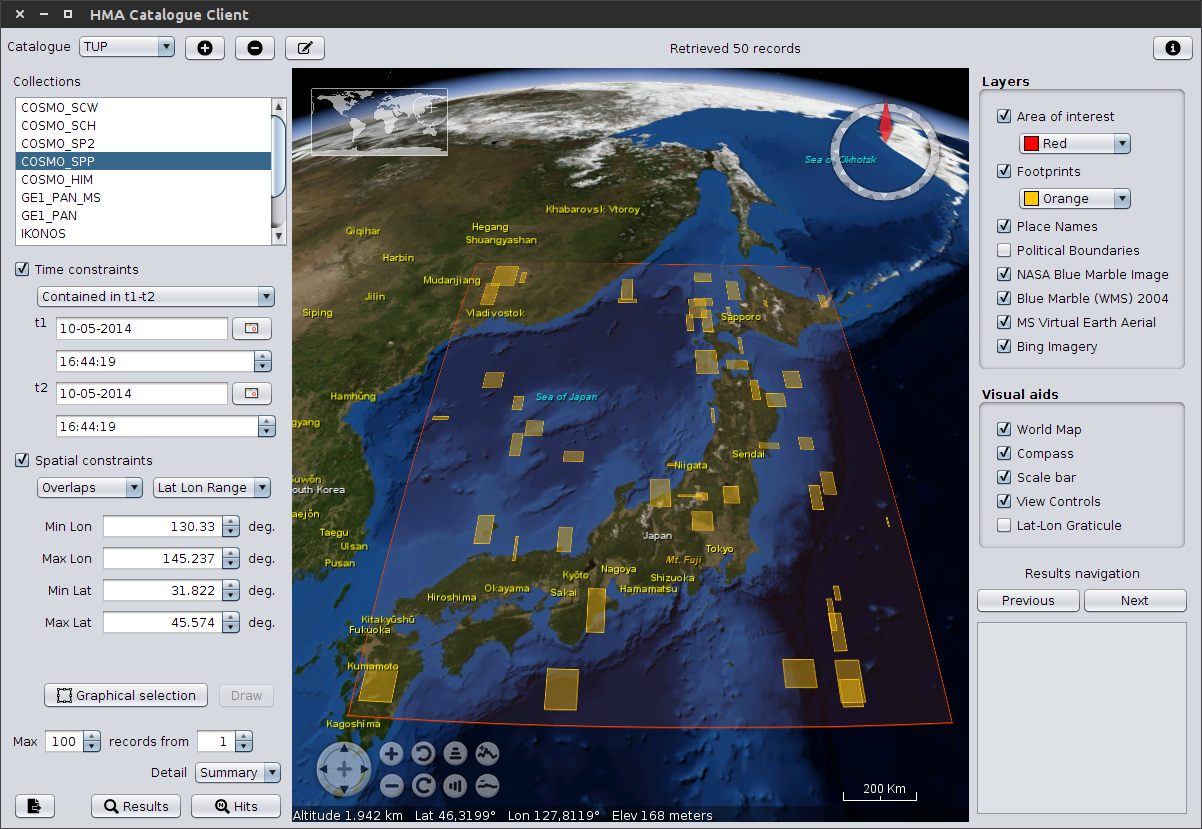
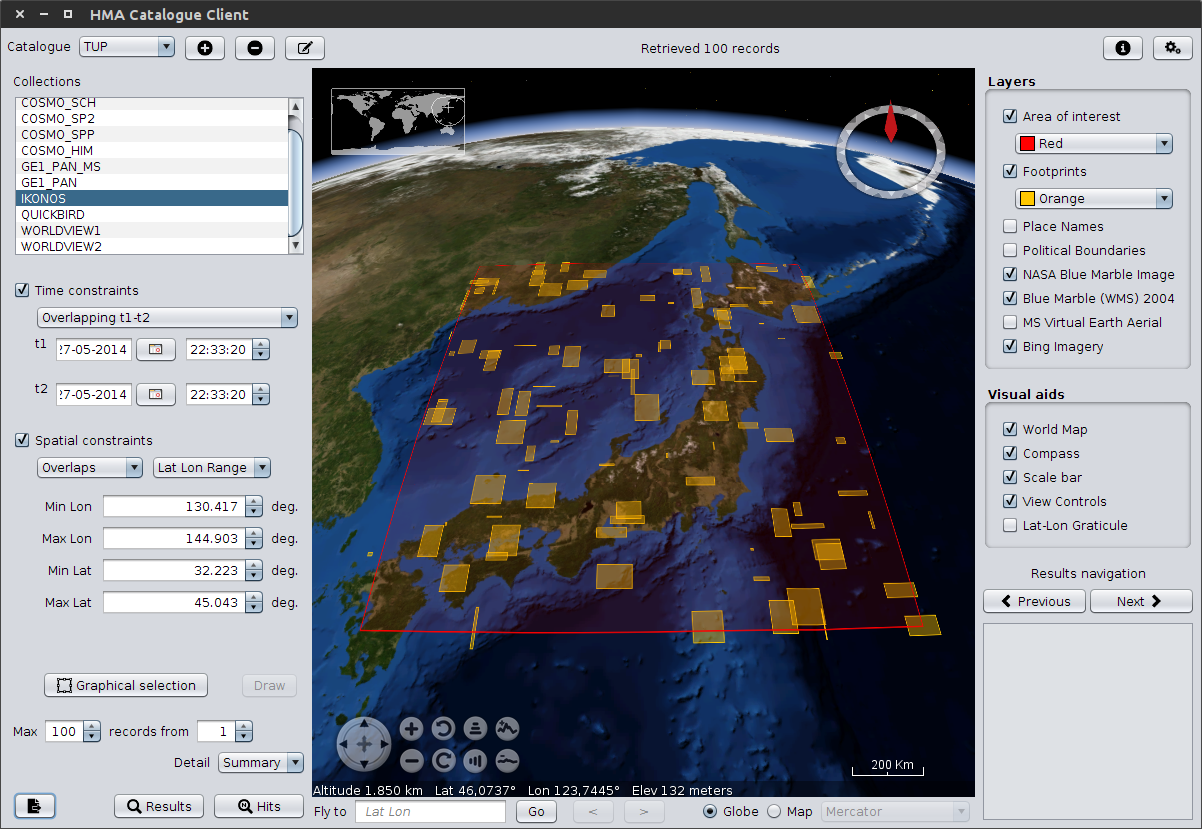
Updated readme and screenshot for v0.7 latest features

diff --git a/README.md b/README.md
@@ -17,10 +17,13 @@ Features
     * Product collections (multiple selection)
     * Time constraints (contained or overlapping a time range, before or after an instant)
     * Spatial constraints (lat/lon range, polyline, polygon, point or cirle areas of interest)
-* Visual representation of query product footprints on a 3D globe (uses the [World Wind Java SDK](http://goworldwind.org) )
+* Visual representation of query product footprints on a 3D globe or 2D map in four projections (uses the [World Wind Java SDK](http://goworldwind.org) )
 * Base cartography from widely known map providers (e.g. _NASA Blue Marble_ and _Microsoft Bing_)
 * Geographic names and lat/lon graticule overlays
+* Results navigation and highlight
+* Fly to Lat Lon point with flown-to locations history
 * Persistence of catalogue definitions and view settings between invocations
+* Several Look & Feels available
 
 Screenshot
 ----------
